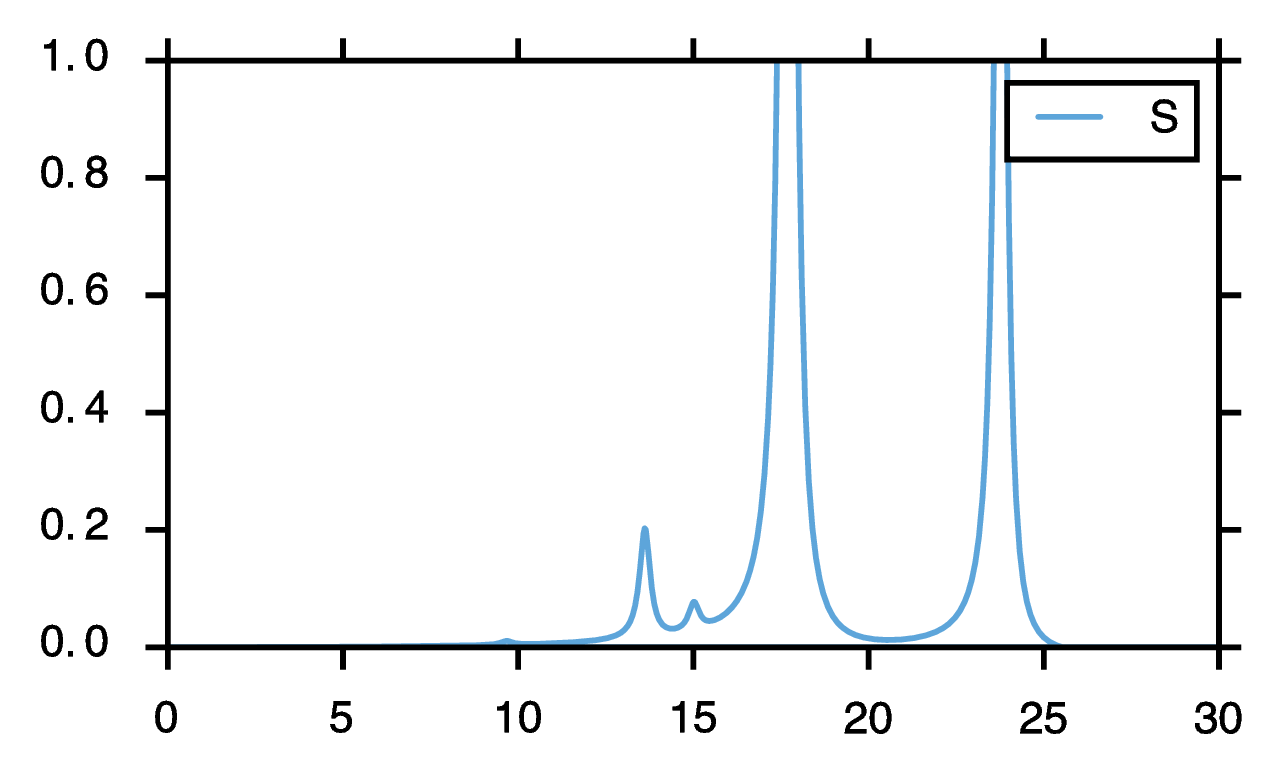
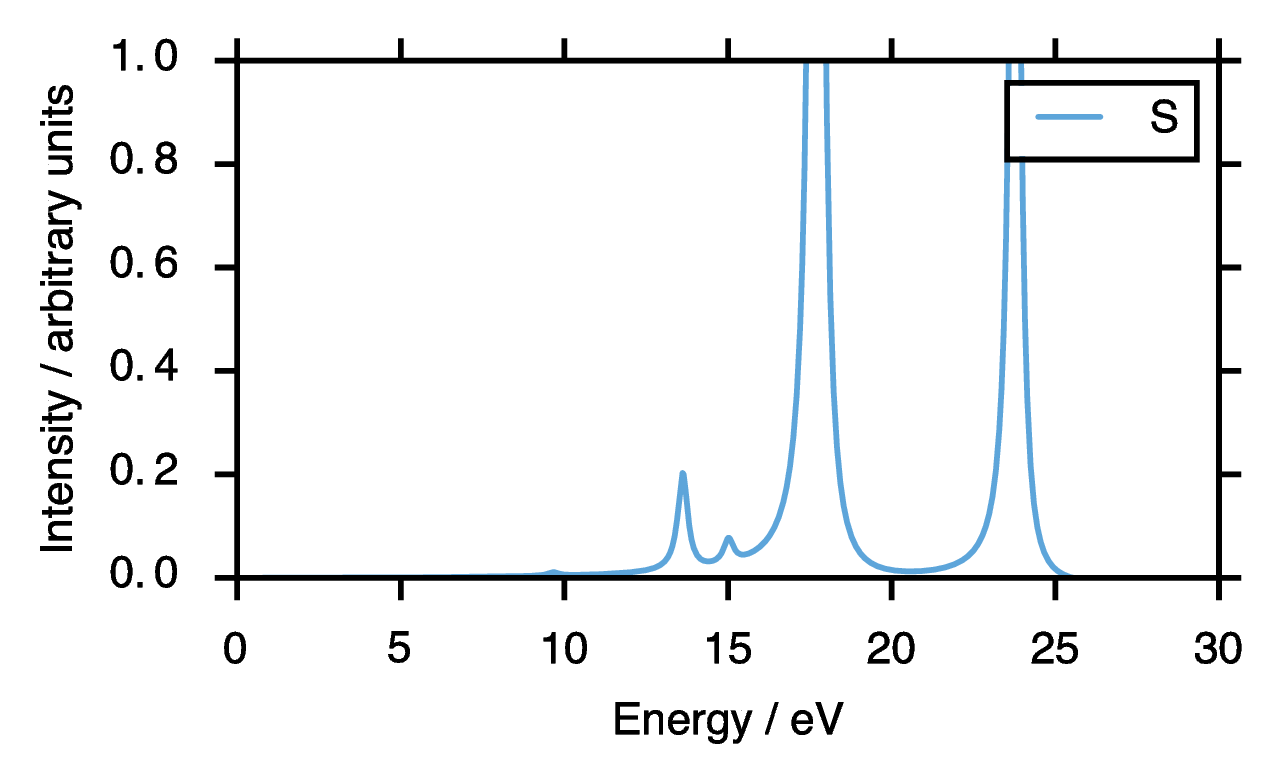
fix more crap

diff --git a/cq_realtime.py b/cq_realtime.py
@@ -108,7 +108,7 @@ if __name__ == '__main__':
     
     kick        = 0.0001 # depends on system
     damping     = 150.0  # anywhere between 50-250 usually works well
-    doCS        = False
+    doCS        = False  # if True, do compressed sensing technique
    
     w, Sxx      = cqRealTime(xFilename,'x',kick,damping,cs=doCS)
     w, Syy      = cqRealTime(yFilename,'y',kick,damping,cs=doCS)
@@ -124,6 +124,8 @@ if __name__ == '__main__':
 
     plt.xlim(0.0,30)     # X range
     plt.legend()
+    plt.xlabel(' Energy / eV ')
+    plt.ylabel(' Intensity / arbitrary units ')
     #plt.show()
     plt.savefig('h2o_absorption.pdf')
 

diff --git a/cs.py b/cs.py
@@ -27,6 +27,9 @@ def CS(h,const=5.0,noise=0.0000001):
     w = np.arange(Nw)
     F = np.sin(2 * np.pi * np.outer(t,w) / Nw)
     g = cvx.Variable(Nw)
+
+    # min |g|_1 subject to |F.g - h|_2 < noise
+
     objective = cvx.Minimize(cvx.norm(g,1))
     constraints = [cvx.norm(F*g - h,2) <= noise]
     prob = cvx.Problem(objective, constraints)
